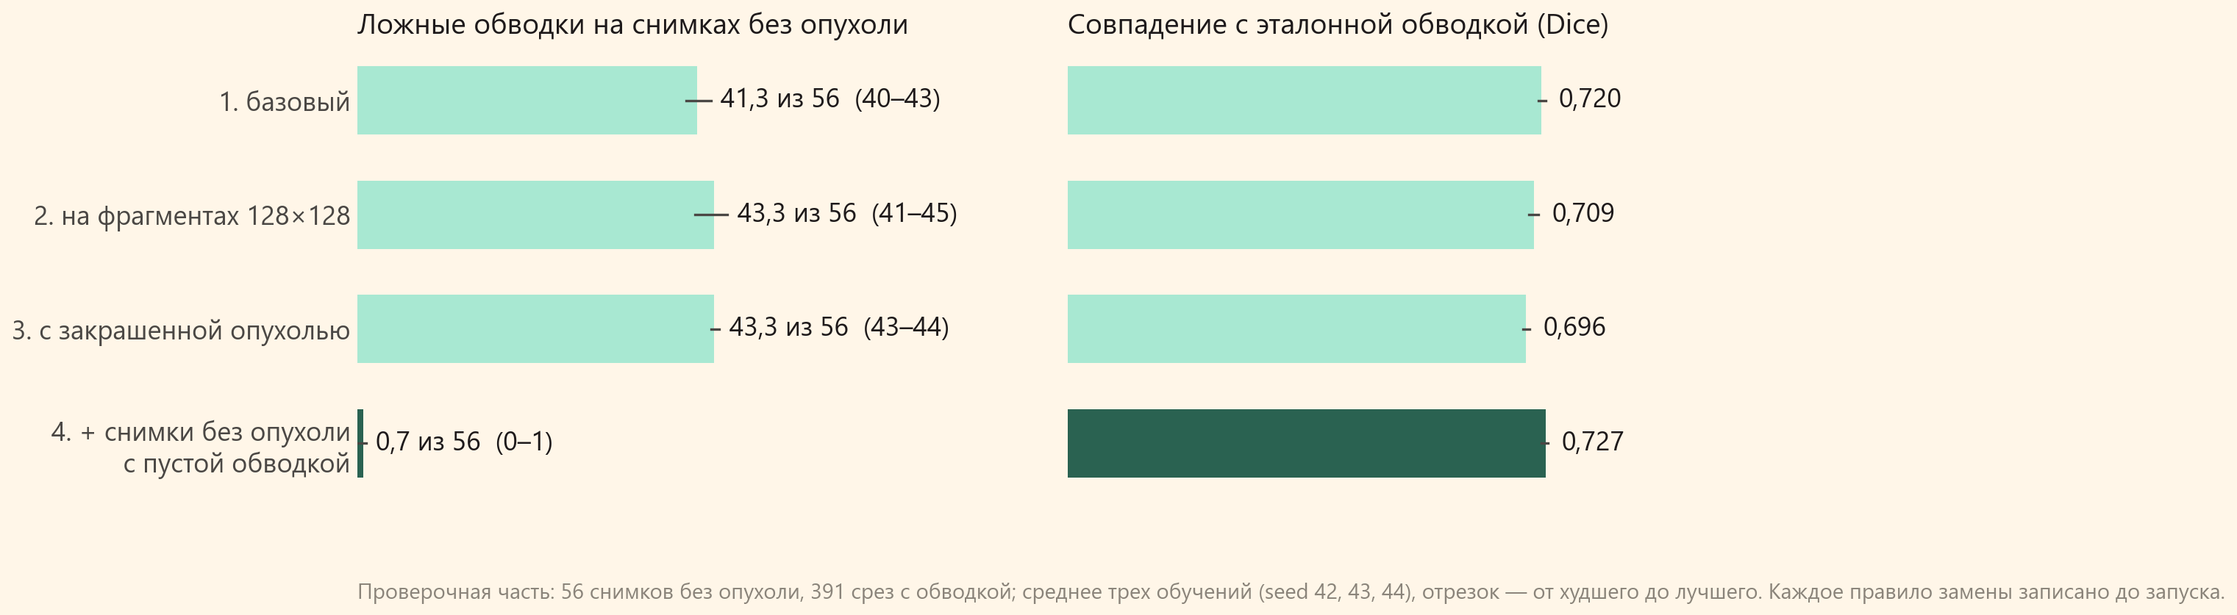
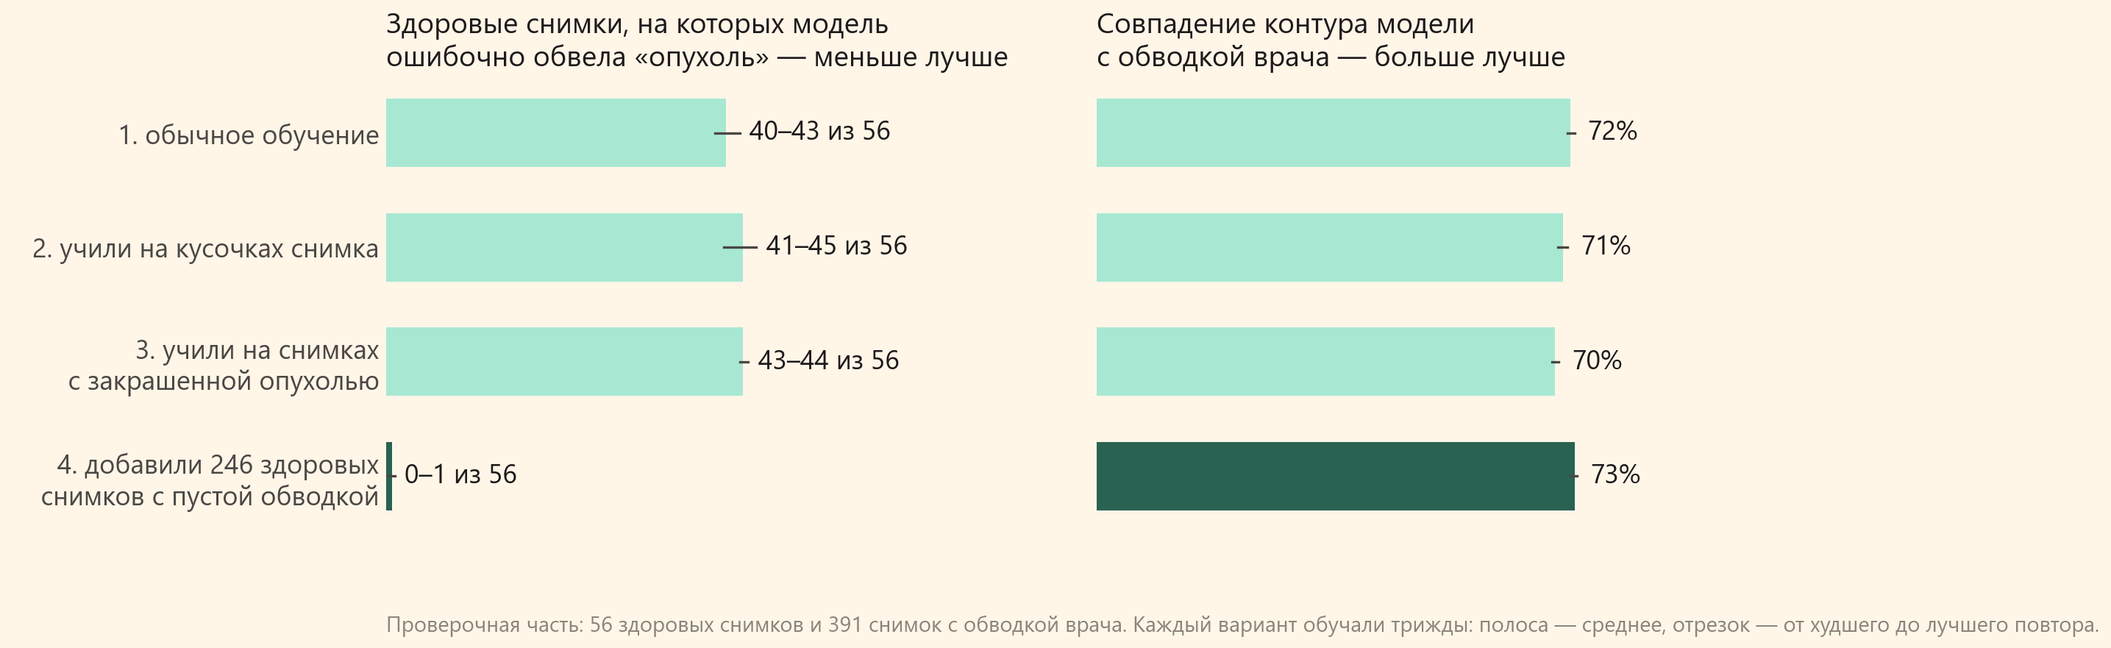
Подписи рисунков к слайдам простым языком

diff --git a/src/make_slide_figures.py b/src/make_slide_figures.py
@@ -126,20 +126,20 @@ def fig01_system(m: Models, out: Path) -> None:
     ax.imshow(raw, cmap="gray", extent=ex_in, interpolation="antialiased")
     ax.text(1.3, 1.7, "Снимок МРТ\nT1 с контрастом", ha="center", va="top", fontsize=10, color=st.INK)
     arrow(ax, 2.6, 3.1, 3.2, 3.1)
-    box(ax, 3.3, 2.1, 6.0, 4.1, "Подготовка", "обрезка полей и рамок\n256 × 256 пикселей\nвыравнивание яркости")
+    box(ax, 3.3, 2.1, 6.0, 4.1, "Подготовка", "обрезка черных полей\nединый размер\nвыравнивание яркости")
     arrow(ax, 6.0, 3.4, 6.7, 4.1)
     arrow(ax, 6.0, 2.8, 6.7, 2.1)
-    box(ax, 6.8, 3.5, 10.0, 5.4, "Классификатор", "ResNet34: тип опухоли\nи вероятности;\nтепловая карта")
-    box(ax, 6.8, 0.8, 10.0, 2.7, "Сегментатор", "U-Net: обводка опухоли\nпо пикселям снимка")
+    box(ax, 6.8, 3.5, 10.0, 5.4, "Модель 1 — тип", "называет тип опухоли\nи уверенность;\nтепловая карта —\nкуда смотрела")
+    box(ax, 6.8, 0.8, 10.0, 2.7, "Модель 2 — контур", "обводит опухоль\nпо точкам снимка")
     arrow(ax, 10.0, 4.4, 10.6, 3.9)
     arrow(ax, 10.0, 1.8, 10.6, 2.3)
-    box(ax, 10.7, 1.2, 13.5, 5.0, "Решение", "«опухоль есть», если\nобводка > 50 пикселей\nили вероятность ≥ 0,976\n\nтип — у классификатора\n\nфлаг — если модели\nне согласны",
-        ec=st.MARK)
+    box(ax, 10.7, 1.2, 13.5, 5.0, "Ответ", "«опухоль есть», если\nмодель 2 нашла\nучасток > 50 точек\nили модель 1 уверена\nна 97,6% и больше\n\nтип — от модели 1\n\nпометка — если модели\nне согласны",
+        ec=st.MARK, fs=11)
     arrow(ax, 13.5, 3.1, 13.85, 3.1)
     ax.imshow(img, cmap="gray", extent=ex_out, interpolation="antialiased")
     draw_contours(ax, mask, st.SYSTEM_RED, lw=1.4, extent=ex_out)
     k = int(probs[:NO_TUMOR_IDX].argmax())
-    ax.text(15.1, 1.7, f"Экран врача\n{CLS_RU[CLASSES[k]]} · {probs[k]:.2f}".replace(".", ","),
+    ax.text(15.1, 1.7, f"Экран врача\n{CLS_RU[CLASSES[k]]},\nуверенность {probs[k]:.0%}",
             ha="center", va="top", fontsize=10, color=st.INK)
     fig.savefig(out)
     plt.close(fig)
@@ -159,18 +159,18 @@ def fig02_data(out: Path) -> None:
 
     fig, (a1, a2) = plt.subplots(1, 2, figsize=(13, 4.6), gridspec_kw={"width_ratios": [1.3, 1], "wspace": 0.42})
     steps = [("Файлы организаторов", n_files, ""),
-             ("Без искаженных копий (BR, DA, HF, VF, RO, SP)\nи файлов «- Copy»", n_named_orig, f"−{num(n_files - n_named_orig)}"),
-             ("Уникальные снимки:\nубраны повторы одного снимка", n_unique, f"−{num(n_named_orig - n_unique)}"),
-             ("Рабочие снимки: после ручной проверки\nкласса «нет опухоли»", n_work, f"−{num(n_unique - n_work)}")]
+             ("Без искаженных копий (осветленных,\nотраженных, с шумом и т. п.)", n_named_orig, f"убрали {num(n_files - n_named_orig)}"),
+             ("Уникальные снимки:\nубраны повторы одного снимка", n_unique, f"убрали {num(n_named_orig - n_unique)}"),
+             ("Рабочие снимки: после ручной проверки\nкласса «нет опухоли»", n_work, f"убрали {num(n_unique - n_work)}")]
     y = np.arange(len(steps))[::-1]
     for yi, (label, v, minus) in zip(y, steps):
         a1.barh(yi, v, color=st.MARK if yi == 0 else st.MARK_LIGHT, height=0.62)
-        a1.text(v + 150, yi, num(v) + (f"   {minus}" if minus else ""), va="center", fontsize=15, color=st.INK)
+        a1.text(v + 150, yi, ("осталось " if minus else "") + num(v) + (f"  ({minus})" if minus else ""), va="center", fontsize=15, color=st.INK)
     a1.set_yticks(y, [s_[0] for s_ in steps], fontsize=13.5)
     a1.tick_params(axis="y", length=0)
     a1.set_xticks([])
     a1.spines[["left", "bottom"]].set_visible(False)
-    a1.set_xlim(0, n_files * 1.36)
+    a1.set_xlim(0, n_files * 1.6)
     a1.set_title("Из 12 064 файлов — 3 574 уникальных рабочих снимка", fontsize=16)
 
     parts = ["train", "val", "test"]
@@ -232,7 +232,7 @@ def fig04_occlusion(m: Models, out: Path) -> None:
         path = sub.path.iloc[int(np.abs(areas - np.median(areas)).argmin())]
         img, mask = m.cache.image(path), m.cache.mask(path) > 0
         filled = occlude(img, tumor_region(mask, occ), occ)
-        for i, (im, title) in enumerate(((img, "исходный срез"), (filled, "опухоль закрашена"))):
+        for i, (im, title) in enumerate(((img, "исходный снимок"), (filled, "опухоль закрашена"))):
             probs, _ = m.run(im)
             p_t = 1 - probs[NO_TUMOR_IDX]
             ans = CLASSES[int(probs.argmax())]
@@ -244,7 +244,7 @@ def fig04_occlusion(m: Models, out: Path) -> None:
             for s_ in ax.spines.values():
                 s_.set_visible(False)
             ax.set_title(f"{CLS_RU[typ].replace('опухоль гипофиза', 'гипофиз')}\n{title}" if i == 0 else title, fontsize=9.5, loc="center")
-            ax.text(0.5, -0.04, f"вероятность опухоли {p_t:.3f}\nответ: {CLS_RU[ans]}".replace(".", ","), transform=ax.transAxes,
+            ax.text(0.5, -0.04, f"вероятность опухоли {pct(p_t)}\nответ: {CLS_RU[ans]}", transform=ax.transAxes,
                     ha="center", va="top", fontsize=9, color=st.INK)
     fig.savefig(out)
     plt.close(fig)
@@ -252,8 +252,8 @@ def fig04_occlusion(m: Models, out: Path) -> None:
 
 def fig05_seg_attempts(out: Path) -> None:
     e = pd.read_csv("reports/experiments.csv")
-    runs = [("run1_seg", "1. базовый"), ("run1_seg_crop", "2. на фрагментах 128×128"),
-            ("run1_seg_cf", "3. с закрашенной опухолью"), ("run1_seg_neg", "4. + снимки без опухоли\n    с пустой обводкой")]
+    runs = [("run1_seg", "1. обычное обучение"), ("run1_seg_crop", "2. учили на кусочках снимка"),
+            ("run1_seg_cf", "3. учили на снимках\n    с закрашенной опухолью"), ("run1_seg_neg", "4. добавили 246 здоровых\n    снимков с пустой обводкой")]
     rows = []
     for r, label in runs:
         x = e[e.run == r]
@@ -267,29 +267,30 @@ def fig05_seg_attempts(out: Path) -> None:
         c = st.MARK if chosen else st.MARK_LIGHT
         a1.barh(yi, fm, color=c, height=0.6)
         a1.plot([fl, fh], [yi, yi], color=st.INK2, lw=1.2)
-        a1.text(max(fh, fm) + 1.2, yi, f"{fm:.1f}".replace(".", ",") + f" из 56  ({fl:.0f}–{fh:.0f})", va="center", fontsize=13, color=st.INK)
+        a1.text(max(fh, fm) + 1.2, yi, f"{fl:.0f}–{fh:.0f} из 56", va="center", fontsize=13, color=st.INK)
         a2.barh(yi, d, color=c, height=0.6)
         a2.plot([dl, dh], [yi, yi], color=st.INK2, lw=1.2)
-        a2.text(dh + 0.02, yi, f"{d:.3f}".replace(".", ","), va="center", fontsize=13, color=st.INK)
+        a2.text(dh + 0.02, yi, pct(d, 0), va="center", fontsize=13, color=st.INK)
     a1.set_yticks(y, [r[0] for r in rows], fontsize=13)
     a1.tick_params(axis="y", length=0)
     a2.tick_params(axis="y", length=0)
     a1.set_xlim(0, 80)
     a2.set_xlim(0, 1.0)
-    for a, title in ((a1, "Ложные обводки на снимках без опухоли"), (a2, "Совпадение с эталонной обводкой (Dice)")):
+    for a, title in ((a1, "Здоровые снимки, на которых модель\nошибочно обвела «опухоль» — меньше лучше"),
+                     (a2, "Совпадение контура модели\nс обводкой врача — больше лучше")):
         a.set_xticks([])
         a.spines[["left", "bottom"]].set_visible(False)
         a.set_title(title, fontsize=14)
-    fig.text(0.125, -0.06, "Проверочная часть: 56 снимков без опухоли, 391 срез с обводкой; среднее трех обучений (seed 42, 43, 44), "
-             "отрезок — от худшего до лучшего. Каждое правило замены записано до запуска.", fontsize=10.5, color=st.MUTED)
+    fig.text(0.125, -0.06, "Проверочная часть: 56 здоровых снимков и 391 снимок с обводкой врача. Каждый вариант обучали трижды: "
+             "полоса — среднее, отрезок — от худшего до лучшего повтора.", fontsize=10.5, color=st.MUTED)
     fig.savefig(out)
     plt.close(fig)
 
 
 def fig06_subgroups(metrics: dict, out: Path) -> None:
-    keys = [("опухоли: все", "Опухоли — все"), ("опухоли: figshare", "  срезы Figshare"),
-            ("опухоли: figshare_crop", "  Figshare в другом кадрировании"), ("опухоли: other", "  другие источники"),
-            ("нет опухоли: все", "Нет опухоли — все"), ("нет опухоли: T1", "  режим T1"), ("нет опухоли: другой режим", "  другие режимы")]
+    keys = [("опухоли: все", "Опухоли — все"), ("опухоли: figshare", "  снимки Figshare"),
+            ("опухоли: figshare_crop", "  Figshare, другое кадрирование"), ("опухоли: other", "  снимки из других источников"),
+            ("нет опухоли: все", "Нет опухоли — все"), ("нет опухоли: T1", "  режим МРТ T1"), ("нет опухоли: другой режим", "  другие режимы МРТ")]
     sysd = {r["группа"]: r for r in metrics["presence"]}
     clsd = {r["группа"]: r for r in metrics["presence_classifier_only"]}
     fig, ax = plt.subplots(figsize=(11, 4.6))
@@ -309,11 +310,11 @@ def fig06_subgroups(metrics: dict, out: Path) -> None:
     ax.set_axisbelow(True)
     ax.spines[["left"]].set_visible(False)
     ax.plot([], [], "o", ms=7.5, mfc=st.MARK, mec=st.MARK, label="система (две модели)")
-    ax.plot([], [], "o", ms=7.5, mfc=st.SURFACE, mec=st.MUTED, mew=1.5, label="классификатор один")
+    ax.plot([], [], "o", ms=7.5, mfc=st.SURFACE, mec=st.MUTED, mew=1.5, label="одна модель типа")
     ax.legend(loc="lower left", frameon=False, fontsize=9.5, ncol=2, bbox_to_anchor=(0, 1.0))
-    ax.set_title("Тест, новые пациенты: найдено опухолей и верно «нет опухоли»", pad=26)
-    fig.text(0.125, -0.03, "Точка — доля, отрезок — 95% доверительный интервал. Снимков без опухоли в тесте 49, поэтому интервалы широкие.",
-             fontsize=8.5, color=st.MUTED)
+    ax.set_title("Итоговый тест: доля найденных опухолей и верных ответов «опухоли нет»", pad=26)
+    fig.text(0.125, -0.03, "Точка — доля верных ответов; отрезок — где с вероятностью 95% лежит настоящее значение. "
+             "Снимков без опухоли в тесте 49, поэтому отрезки широкие.", fontsize=8.5, color=st.MUTED)
     fig.savefig(out)
     plt.close(fig)
 
@@ -341,28 +342,28 @@ def fig07_confusion(metrics: dict, out: Path) -> None:
     for s_ in ax.spines.values():
         s_.set_visible(False)
     k, n = metrics["cls"]["type_correct_among_found"]["k"], metrics["cls"]["type_correct_among_found"]["n"]
-    fig.text(0.02, 0.01, f"Тест, 582 снимка. Тип верен у {k} из {n} найденных опухолей ({pct(k / n)}); "
-             "главная путаница — глиома ↔ менингиома.", fontsize=8.5, color=st.MUTED)
+    fig.text(0.02, 0.01, f"Итоговый тест, 582 снимка. Тип верен у {k} из {n} найденных опухолей ({pct(k / n)}); "
+             "чаще всего путаются глиома и менингиома.", fontsize=8.5, color=st.MUTED)
     fig.savefig(out)
     plt.close(fig)
 
 
 def fig08_copies(metrics: dict, out: Path) -> None:
-    names = {"BR": "ярче в 1,9 раза", "DA": "темнее в 2 раза", "HF": "отражение по горизонтали", "RO": "поворот",
-             "VF": "отражение по вертикали", "SP": "шум «соль-перец»"}
+    names = {"BR": "ярче в 1,9 раза", "DA": "темнее в 2 раза", "HF": "отражен слева направо", "RO": "немного повернут",
+             "VF": "перевернут вверх ногами", "SP": "шум: белые и черные точки"}
     c = metrics["copies"]
     rows = sorted(((names[k], v["present_ok"], v["n"]) for k, v in c.items()), key=lambda r: -r[1])
     fig, ax = plt.subplots(figsize=(7.4, 3.3))
     y = np.arange(len(rows))[::-1]
     for yi, (label, v, n) in zip(y, rows):
         ax.barh(yi, v, color=st.MARK if v >= 0.95 else st.MARK_LIGHT, height=0.6)
-        ax.text(v + 0.012, yi, f"{pct(v)}  ({n} копий)", va="center", fontsize=11, color=st.INK)
+        ax.text(v + 0.012, yi, f"{pct(v)} из {n} копий", va="center", fontsize=11, color=st.INK)
     ax.set_yticks(y, [r[0] for r in rows], fontsize=11)
     ax.tick_params(axis="y", length=0)
     ax.set_xlim(0, 1.32)
     ax.set_xticks([])
     ax.spines[["left", "bottom"]].set_visible(False)
-    ax.set_title("Копии организаторов: наличие опухоли определено верно", fontsize=12)
+    ax.set_title("Искаженные копии снимков: доля копий, где система\nверно ответила, есть ли опухоль", fontsize=12)
     fig.savefig(out)
     plt.close(fig)
 
@@ -395,11 +396,11 @@ def fig09_contours(m: Models, out: Path) -> None:
             ax.set_yticks([])
             for s_ in ax.spines.values():
                 s_.set_visible(False)
-            kind = "типичный" if q == 0.5 else "трудный"
-            ax.set_title(f"{CLS_RU[typ].replace('опухоль гипофиза', 'гипофиз')}\nDice {row.dice:.2f}".replace(".", ","), fontsize=9.5, loc="center")
+            kind = "типичный случай" if q == 0.5 else "трудный случай"
+            ax.set_title(f"{CLS_RU[typ].replace('опухоль гипофиза', 'гипофиз')}\nсовпадение {pct(row.dice, 0)}", fontsize=9.5, loc="center")
             if j == 0:
                 ax.set_ylabel(kind, fontsize=10.5, color=st.INK2)
-    fig.text(0.5, 0.02, "красная — система, зеленая — эталон Figshare", ha="center", fontsize=9.5, color=st.INK2)
+    fig.text(0.5, 0.02, "красная линия — контур системы, зеленая — обводка врача", ha="center", fontsize=9.5, color=st.INK2)
     fig.savefig(out)
     plt.close(fig)
 
@@ -409,22 +410,22 @@ def fig10_deployment(out: Path) -> None:
     ax.add_patch(FancyBboxPatch((0.15, 0.35), 15.0, 6.2, boxstyle="round,pad=0,rounding_size=0.2", fc="none", ec=st.MUTED, lw=1.1, ls=(0, (5, 4))))
     ax.text(0.4, 6.3, "Больница: снимки и результаты не выходят наружу", fontsize=10, color=st.INK2, va="top", fontweight="bold")
     box(ax, 0.5, 3.9, 2.9, 5.4, "Томограф МРТ")
-    box(ax, 3.7, 3.9, 6.1, 5.4, "Архив PACS", "хранение снимков\nи результатов")
-    box(ax, 6.9, 3.9, 11.7, 5.4, "Маршрутизатор DICOM", "отбирает МРТ головы\nT1 с контрастом по тегам серии")
-    box(ax, 12.35, 3.9, 14.95, 5.4, "Журнал аудита", "кто, когда,\nкакой снимок")
-    box(ax, 0.5, 0.8, 5.3, 3.0, "Рабочее место врача", "снимок, обводка, уверенность, флаг\nв привычной программе\nрешение принимает врач")
-    box(ax, 6.9, 0.8, 11.7, 3.0, "Сервер ИИ", "две модели, решение, флаг\nбез видеокарты\n0,6 с на снимок", ec=st.MARK)
-    box(ax, 15.9, 0.8, 18.4, 3.0, "Дообучение", "правки обводок\nпосле\nобезличивания", ls=(0, (4, 3)))
-    arrow(ax, 2.9, 4.65, 3.7, 4.65, label="DICOM")
+    box(ax, 3.7, 3.9, 6.1, 5.4, "Архив (PACS)", "хранит снимки\nи результаты")
+    box(ax, 6.9, 3.9, 11.7, 5.4, "Отбор снимков", "пропускает только МРТ головы\nв режиме T1 с контрастом")
+    box(ax, 12.35, 3.9, 14.95, 5.4, "Журнал", "кто, когда и какой\nснимок смотрел")
+    box(ax, 0.5, 0.8, 5.3, 3.0, "Рабочее место врача", "снимок, контур, уверенность,\nпометка «требует внимания»\nв привычной программе")
+    box(ax, 6.9, 0.8, 11.7, 3.0, "Сервер с системой", "две модели, ответ, пометка\nбез видеокарты\n0,6 с на снимок", ec=st.MARK)
+    box(ax, 15.9, 0.8, 18.4, 3.0, "Доучивание", "контуры,\nисправленные\nврачом, без\nданных пациента", ls=(0, (4, 3)))
+    arrow(ax, 2.9, 4.65, 3.7, 4.65)
     arrow(ax, 6.1, 4.65, 6.9, 4.65)
     arrow(ax, 9.3, 3.9, 9.3, 3.0)
-    ax.text(9.45, 3.45, "серии T1+К", fontsize=9.5, color=st.MUTED, va="center")
+    ax.text(9.45, 3.45, "нужные снимки", fontsize=9.5, color=st.MUTED, va="center")
     arrow(ax, 7.4, 3.0, 5.9, 3.9)
     ax.text(7.05, 3.62, "результат\nотдельной серией", fontsize=9.5, color=st.MUTED, ha="left", va="center")
     arrow(ax, 4.3, 3.9, 4.3, 3.0)
     ax.text(4.15, 3.45, "просмотр", fontsize=9.5, color=st.MUTED, ha="right", va="center")
     arrow(ax, 11.7, 2.7, 12.9, 3.9)
-    arrow(ax, 11.7, 1.4, 15.9, 1.4, ls=(0, (4, 3)), label="обезличенные правки")
+    arrow(ax, 11.7, 1.4, 15.9, 1.4, ls=(0, (4, 3)), label="без имен пациентов")
     fig.savefig(out)
     plt.close(fig)
 
@@ -451,7 +452,7 @@ def fig11_preannotation(m: Models, out: Path) -> None:
     ax.add_patch(plt.Circle((xs.max() + 9, ys.mean()), 6, fc="none", ec="#ffd400", lw=1.6))
     ax.text(xs.max() + 18, ys.mean(), "кисть", color="#ffd400", fontsize=9, va="center")
     ax.axis("off")
-    ax.set_title("Обводку нарисовал сегментатор", fontsize=10.5, loc="left")
+    ax.set_title("Контур предложила модель", fontsize=10.5, loc="left")
 
     p = fig.add_axes((0.48, 0.02, 0.52, 0.9))
     p.set_xlim(0, 10)

diff --git a/src/import_doctor_answers.py b/src/import_doctor_answers.py
@@ -91,7 +91,8 @@ def plot_causes(err: pd.DataFrame, n_flag_only: int, path: Path) -> None:
     for s in ("top", "right", "bottom", "left"):
         ax.spines[s].set_visible(False)
     ax.set_title(f"Причины {len(err)} ошибок по разбору врача", fontsize=11, color="#0b0b0b", loc="left")
-    fig.text(0.01, 0.02, f"Еще {n_flag_only} случаев — верный ответ с флагом, это не ошибка.", fontsize=9, color="#52514e")
+    fig.text(0.01, 0.02, f"Еще {n_flag_only} случаев — ответ верный, но стоит пометка «требует внимания врача»: это не ошибка.",
+             fontsize=9, color="#52514e")
     fig.tight_layout(rect=(0, 0.06, 1, 1))
     fig.savefig(path)
     plt.close(fig)
